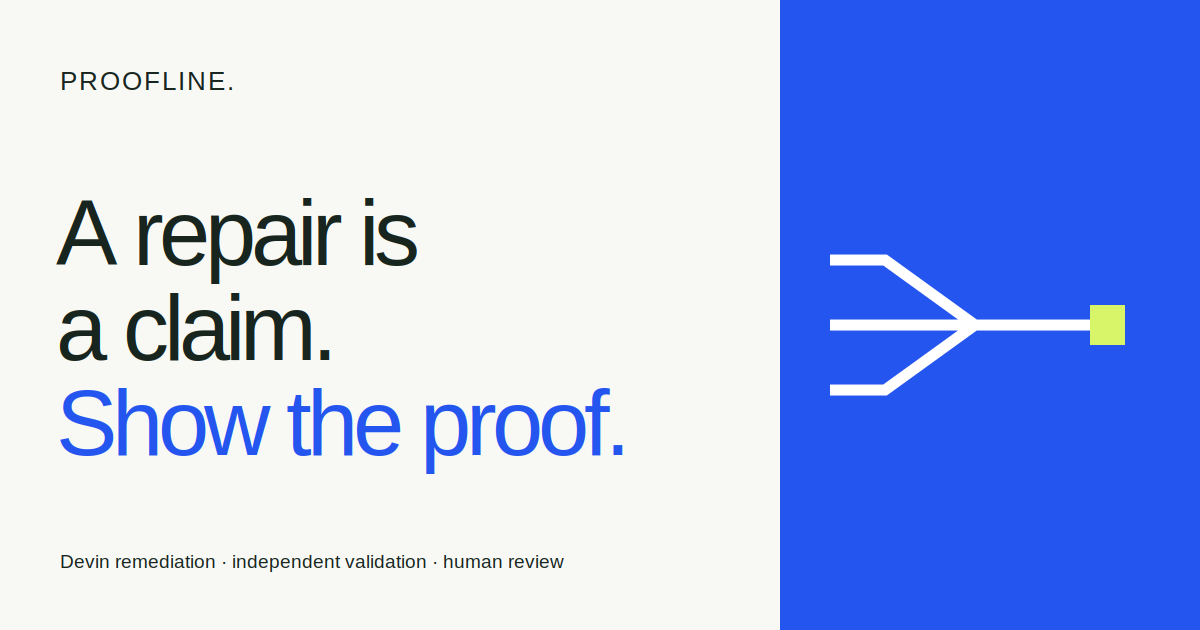
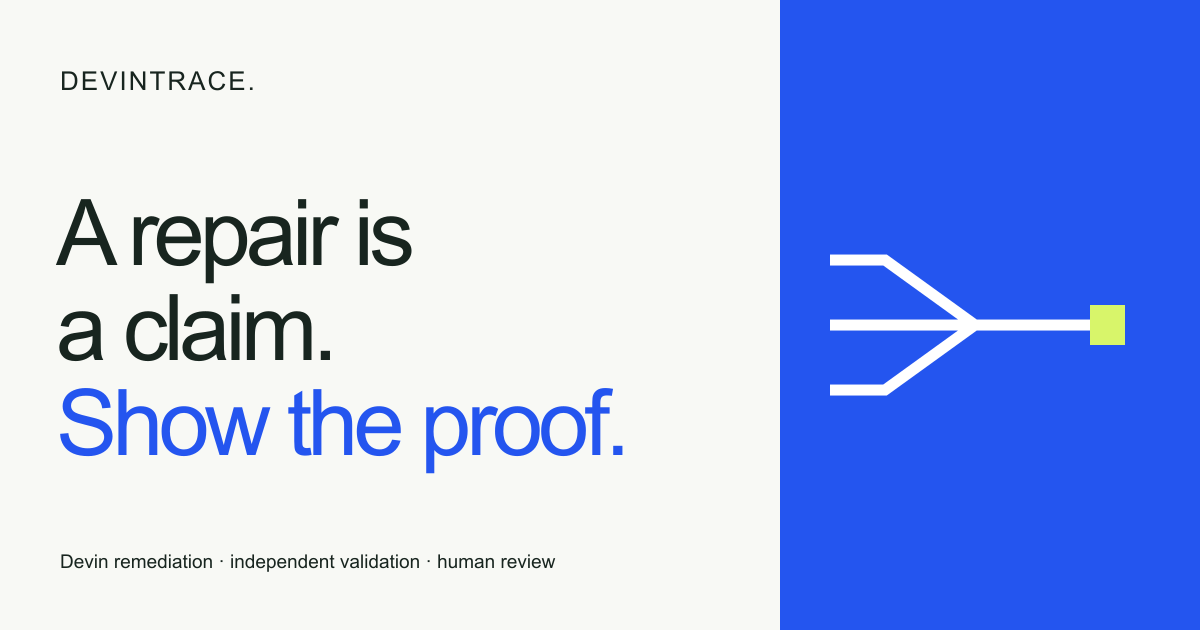
Rebrand the evidence workbench as DevinTrace

diff --git a/app/templates/base.html b/app/templates/base.html
@@ -10,12 +10,12 @@
   <meta property="og:image" content="{{ request.base_url }}static/social.png">
   <meta property="og:image:width" content="1200">
   <meta property="og:image:height" content="630">
-  <meta property="og:image:alt" content="Proofline — independent proof for autonomous repair">
+  <meta property="og:image:alt" content="DevinTrace — independent proof for autonomous repair">
   <meta name="twitter:card" content="summary_large_image">
   {% if page_name == 'overview' %}<link rel="canonical" href="{{ request.base_url }}"><meta property="og:url" content="{{ request.base_url }}">{% endif %}
-  <meta property="og:title" content="{{ title }} · Proofline">
+  <meta property="og:title" content="{{ title }} · DevinTrace">
   <meta property="og:description" content="Independent evidence for Devin-powered remediation. A candidate is not a verified repair.">
-  <title>{{ title }} · Proofline</title>
+  <title>{{ title }} · DevinTrace</title>
   <link rel="icon" href="/static/favicon.svg" type="image/svg+xml">
   <link rel="icon" href="/static/favicon.ico" sizes="16x16 32x32 48x48">
   <link rel="apple-touch-icon" href="/static/apple-touch-icon.png">
@@ -26,7 +26,7 @@
 <body class="page-{{ page_name }}">
   <a class="skip-link" href="#main">Skip to content</a>
   <header class="site-header">
-    <a class="brand" href="/" aria-label="Proofline home"><img class="brand-mark" src="/static/mark.svg" width="34" height="34" alt=""><img class="brand-word" src="/static/wordmark.svg" width="218" height="32" alt="Proofline"></a>
+    <a class="brand" href="/" aria-label="DevinTrace home"><img class="brand-mark" src="/static/mark.svg" width="34" height="34" alt=""><img class="brand-word" src="/static/wordmark.svg" width="260" height="32" alt="DevinTrace"></a>
     <nav class="main-nav" aria-label="Main navigation">
       <a href="/" {{ 'aria-current=page' if page_name == 'overview' else '' }}>Overview</a>
       <a href="/dashboard" {{ 'aria-current=page' if page_name in ['dashboard','job'] else '' }}>Workbench</a>
@@ -36,7 +36,7 @@
     <span class="header-note"><span class="square-dot" aria-hidden="true"></span>Read-only by design</span>
   </header>
   <main id="main" tabindex="-1">{% block content %}{% endblock %}</main>
-  <footer class="site-footer"><span>Proofline <span class="muted">/ Devin Remediation Platform</span></span><a href="https://github.com/dheeraj5612/devin-remediation-platform">Source &amp; setup <span aria-hidden="true">↗</span></a></footer>
+  <footer class="site-footer"><span>DevinTrace <span class="muted">/ Devin Remediation Platform</span></span><a href="https://github.com/dheeraj5612/devin-remediation-platform">Source &amp; setup <span aria-hidden="true">↗</span></a></footer>
   <div id="notice" class="notice" hidden><p id="notice-message" role="status" aria-live="polite"></p><button class="notice-dismiss" type="button" data-dismiss>Dismiss</button></div>
 </body>
 </html>

diff --git a/docs/design/concepts.html b/docs/design/concepts.html
@@ -1,4 +1,4 @@
-<!doctype html><html lang="en"><meta charset="utf-8"><meta name="viewport" content="width=device-width, initial-scale=1"><title>Proofline · Three concept studies</title><style>
+<!doctype html><html lang="en"><meta charset="utf-8"><meta name="viewport" content="width=device-width, initial-scale=1"><title>DevinTrace · Three concept studies</title><style>
 *{box-sizing:border-box}body{margin:0;background:#e9e9e5;color:#17211f;font:15px/1.5 Arial,sans-serif}header{padding:40px 50px}h1,h2,h3,p{margin:0}header p{margin-top:10px;max-width:680px}section{margin:0 50px 35px;padding:35px;min-height:430px}small,.index{font:11px monospace;letter-spacing:.05em}h2{font-size:46px;line-height:1.1;letter-spacing:-.04em;margin:18px 0 28px}.dark{color:#edf2eb;background:#151b19}.dark h2{font-family:monospace;font-size:37px;letter-spacing:-.05em;color:#d8f56a}.dark-body{display:grid;grid-template-columns:1fr 1.5fr;gap:40px}.dark pre{font:12px/2.2 monospace;color:#bdc9bc}.trace{display:flex;justify-content:space-between;align-items:center;border-top:1px solid #566153;margin-top:40px;padding-top:20px}.trace b{display:block;font-size:40px;color:#d8f56a}.ledger{background:#fbf2e5;color:#642e27}.ledger h2{font-family:Georgia,serif;font-size:59px;font-weight:400;letter-spacing:-.04em}.ledger-body{display:grid;grid-template-columns:1fr 1.5fr;gap:50px}.ledger p{font:18px/1.6 Georgia,serif;max-width:250px}.entries div{padding:17px 0;border-bottom:1px solid #ceb4a2;display:flex;justify-content:space-between}.cobalt{background:#f8f9f5}.cobalt h2{font-size:53px;font-weight:400}.cobalt-body{display:grid;grid-template-columns:1.3fr 1fr;gap:50px}.proof{background:#2455ef;color:white;padding:25px}.proof h3{font-size:29px;font-weight:400;line-height:1.15}.proofline{font:36px monospace;margin:25px 0}.proofline span{color:#d8f56a}.counts{display:flex;gap:45px}.counts b{display:block;font-size:51px;font-weight:400}.selected{float:right;color:#2455ef;font:11px monospace}@media(max-width:700px){header{padding:25px}section{margin:0 20px 25px;padding:25px}.dark-body,.ledger-body,.cobalt-body{grid-template-columns:1fr}.ledger h2{font-size:43px}.trace{gap:12px}h2{font-size:37px!important}}
 </style><header><small>DESIGN EXPLORATION / DEVIN REMEDIATION PLATFORM</small><h1>Three directions. One review problem.</h1><p>Composition studies, not live interfaces. All counts below reproduce the six-run synthetic demo: four verified, two escalated. The same data serves three genuinely different working models.</p></header>
 <section class="dark"><small>01 / GRAPHITE DISPATCH</small><h2>CONTROL → CANDIDATE → CHECK</h2><div class="dark-body"><pre>REPOSITORY    demo/superset

diff --git a/app/static/app.css b/app/static/app.css
@@ -1,4 +1,4 @@
-/* Proofline: a ruled evidence workbench, not a collection of floating cards. */
+/* DevinTrace: a ruled evidence workbench, not a collection of floating cards. */
 :root {
   --paper: #f8f9f5;
   --white: #fff;

diff --git a/DESIGN.md b/DESIGN.md
@@ -1,6 +1,6 @@
-# Proofline — an evidence workbench
+# DevinTrace — an evidence workbench
 
-Proofline is the product identity for the **Devin Remediation Platform** UI. It is not an official Devin product or a replacement for the underlying orchestration system.
+DevinTrace is the product identity for the **Devin Remediation Platform** UI. It is not an official Devin product or a replacement for the underlying orchestration system.
 
 ## Audience and the job to be done
 
@@ -32,7 +32,7 @@ The companion [composition studies](docs/design/concepts.html) use the same expl
 |---|---|---|---|
 | **Graphite Dispatch** | Dark technical console, phosphor signals, branch topology, monospaced terminal rows | Dense and operational | Rejected: familiar “developer console” territory; the session looks more important than the evidence |
 | **Audit Casebook** | Warm paper, burgundy ink, large serif editorial headings, numbered folios | Distinctive and careful | Rejected: too much of a static report metaphor for active runs, filters, and changing candidate state |
-| **Cobalt Evidence Desk / Proofline** | Warm-white field, electric cobalt, sharp rules, oversized native grotesk type, commit-like proof marks, sparse lime acceptance | Strong product identity with high information clarity | **Selected:** an inspectable ledger and explicit before/after proof make the core claim visible without a charting framework or ornamental dashboard cards |
+| **Cobalt Evidence Desk / DevinTrace** | Warm-white field, electric cobalt, sharp rules, oversized native grotesk type, commit-like proof marks, sparse lime acceptance | Strong product identity with high information clarity | **Selected:** an inspectable ledger and explicit before/after proof make the core claim visible without a charting framework or ornamental dashboard cards |
 
 ## The selected system
 

diff --git a/docs/demo-script.md b/docs/demo-script.md
@@ -13,7 +13,7 @@ This walkthrough uses the credential-free simulation for deterministic product b
 
 ## 0:00 to 0:45, what problem are we solving?
 
-Open `/dashboard` (the Proofline workbench) and say:
+Open `/dashboard` (the DevinTrace workbench) and say:
 
 > A green agent PR does not prove that a repair is safe. This demo covers two workflows: strengthening a weak test with normal and controlled-regression checks, and repairing a known application regression where malformed import YAML must return a validation error instead of an `UnboundLocalError`. In both workflows, the agent produces a candidate and an independent oracle checks the exact candidate SHA outside the Devin session. Synthetic evidence stays visible so this demo cannot be mistaken for a live customer result.
 

diff --git a/README.md b/README.md
@@ -44,7 +44,7 @@ make test
 make lint
 ```
 
-## Proofline: the evidence workbench
+## DevinTrace: the evidence workbench
 
 The workbench at `/dashboard` and the download at `/report.json` are two views of the same read-only report model in `app/report.py`. The report includes the execution mode, an explicit simulation truth statement, KPI denominators, the event-to-oracle workflow, registered case contracts, readiness gates, persisted job status, exact candidate and validated SHAs, validation outcomes, and event timelines. A report link is not treated as proof of a merge or a live repair.
 
